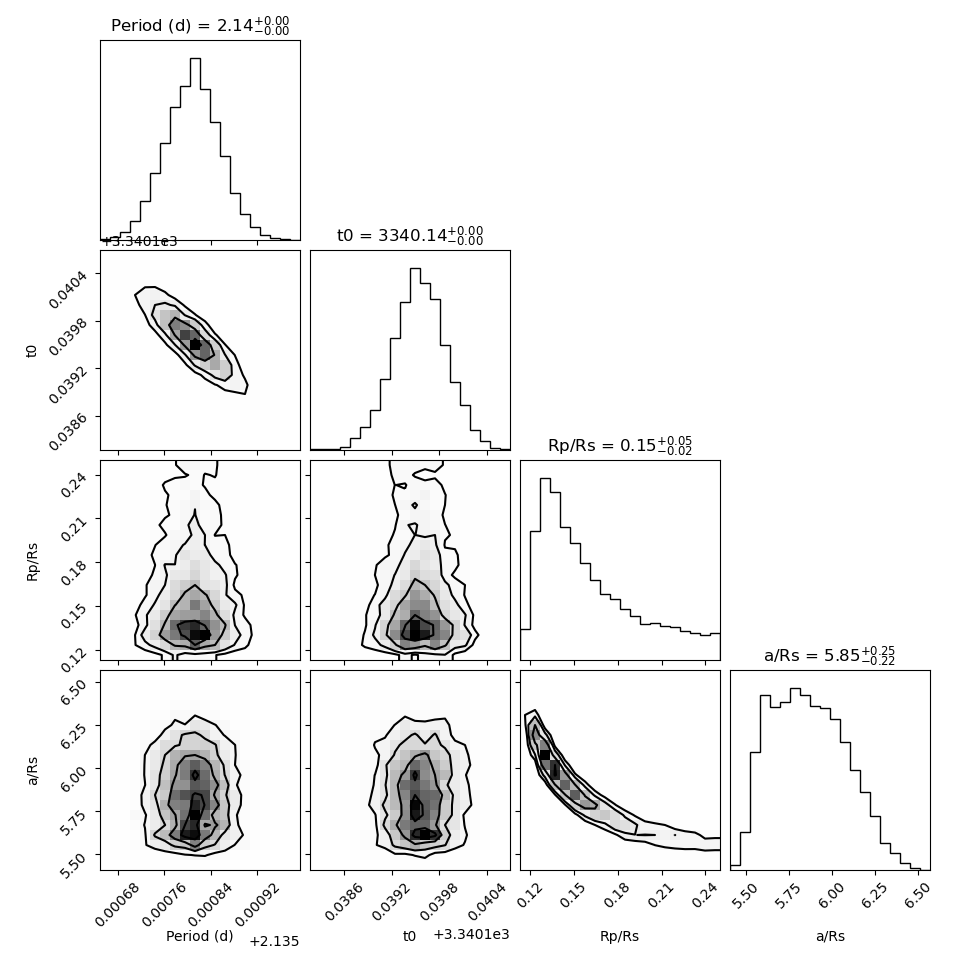
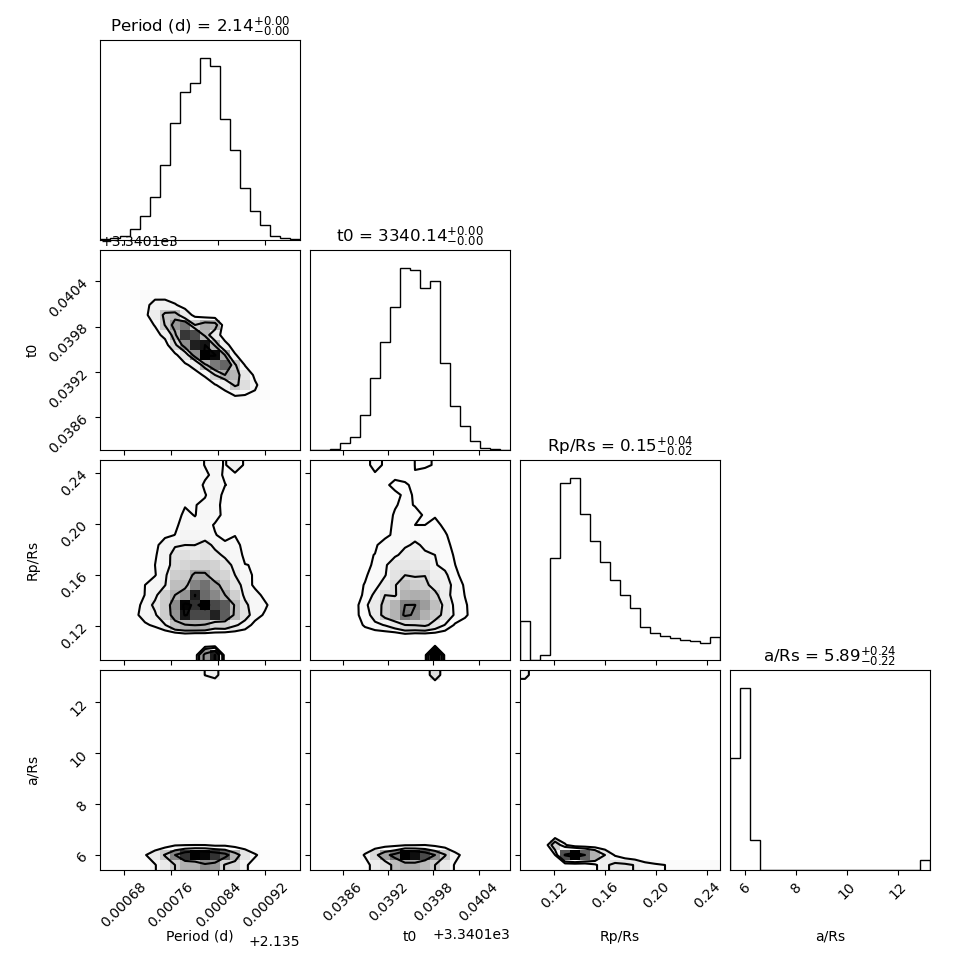
feat(vetting): implement uncertainty-aware radius vetting, depth mismatch diagnostics, and document grazing companion limitations

diff --git a/exoplanet_pipeline/pipeline.py b/exoplanet_pipeline/pipeline.py
@@ -259,22 +259,60 @@ def run_full_pipeline(target_star_id, run_mcmc=True, run_centroid=True,
             derived_params = derive_physical_parameters(posteriors, stellar_params)
             results['derived_physical_parameters'] = derived_params
             
-            # Post-MCMC astrophysical consistency check:
-            # Physical planetary radius ceiling (Guillot 2005): Planets cannot exceed ~2.0-2.5 R_Jup (25 R_earth).
-            # Objects with Rp > 25 R_earth are low-mass stellar/brown dwarf eclipsing binaries.
-            rp_earth_val = float(derived_params['Rp_earth'][0])
-            if rp_earth_val > 25.0:
-                if 'flags' not in ml_results:
-                    ml_results['flags'] = []
-                flag_str = f"FAILED_PLANETARY_RADIUS_CEILING (Rp={rp_earth_val:.1f} R_earth > 25.0 R_earth, Eclipsing Binary Companion)"
+            if 'flags' not in ml_results:
+                ml_results['flags'] = []
+
+            # 1. Uncertainty-Aware Planetary Radius Veto (Guillot 2005):
+            # Maximum physical radius of hydrogen-helium exoplanets is ~2.0-2.5 R_Jup (25.0 R_earth).
+            rp_med = float(derived_params['Rp_earth'][0])
+            rp_neg = float(derived_params['Rp_earth'][1])
+            rp_pos = float(derived_params['Rp_earth'][2])
+            rp_16 = rp_med - rp_neg
+            rp_84 = rp_med + rp_pos
+
+            if rp_16 > 25.0:
+                flag_str = f"FAILED_PLANETARY_RADIUS_CEILING (Rp={rp_med:.1f} [-{rp_neg:.1f}/+{rp_pos:.1f}] R_earth > 25.0 R_earth, Eclipsing Binary Companion)"
                 if flag_str not in ml_results['flags']:
                     ml_results['flags'].append(flag_str)
                 ml_results['planet_probability'] = 0.0
                 ml_results['disposition'] = "FALSE_POSITIVE"
-                results['ml_vetting'] = ml_results
                 results['ml_vetting_score'] = 0.0
-                print(f"\n  [VETTING VETO] Derived physical radius Rp = {rp_earth_val:.1f} R_earth exceeds planetary limit (25 R_earth).")
+                print(f"\n  [VETTING VETO] Physical radius Rp = {rp_med:.1f} [-{rp_neg:.1f}/+{rp_pos:.1f}] R_earth confidently exceeds planetary limit (25.0 R_earth).")
                 print(f"  -> Reclassified disposition: FALSE_POSITIVE (Eclipsing Binary / Stellar Companion)")
+            elif rp_16 <= 25.0 <= rp_84:
+                flag_str = f"AMBIGUOUS_PLANETARY_RADIUS (Rp={rp_med:.1f} [-{rp_neg:.1f}/+{rp_pos:.1f}] R_earth spans 25.0 R_earth ceiling, boundary unresolved)"
+                if flag_str not in ml_results['flags']:
+                    ml_results['flags'].append(flag_str)
+                if ml_results.get('disposition') == "CANDIDATE":
+                    ml_results['disposition'] = "AMBIGUOUS"
+                    ml_results['planet_probability'] = min(ml_results.get('planet_probability', 1.0), 0.50)
+                    results['ml_vetting_score'] = ml_results['planet_probability']
+                print(f"\n  [VETTING WARNING] Physical radius Rp = {rp_med:.1f} [-{rp_neg:.1f}/+{rp_pos:.1f}] R_earth spans planetary ceiling (25.0 R_earth).")
+                print(f"  -> Reclassified disposition: AMBIGUOUS (Needs High-Resolution Spectroscopy / Follow-up)")
+
+            # 2. BLS vs MCMC Depth Consistency Diagnostic:
+            bls_depth = float(bls_results['depth'].value) if hasattr(bls_results['depth'], 'value') else float(bls_results['depth'])
+            mcmc_depth = float(posteriors['depth'][0]) if 'depth' in posteriors else bls_depth
+            depth_ratio = max(mcmc_depth / max(bls_depth, 1e-6), bls_depth / max(mcmc_depth, 1e-6))
+            if depth_ratio >= 1.5:
+                flag_mismatch = f"BLS_MCMC_DEPTH_MISMATCH (BLS={bls_depth*100:.2f}%, MCMC={mcmc_depth*100:.2f}%, ratio={depth_ratio:.2f}x >= 1.5x)"
+                if flag_mismatch not in ml_results['flags']:
+                    ml_results['flags'].append(flag_mismatch)
+                print(f"  [DIAGNOSTIC FLAG] {flag_mismatch}")
+
+            # 3. Grazing Transit Geometry Diagnostic:
+            if 'a_rs' in posteriors and 'inc' in posteriors and 'rp_rs' in posteriors:
+                a_rs_val = float(posteriors['a_rs'][0])
+                inc_rad = np.radians(float(posteriors['inc'][0]))
+                rp_rs_val = float(posteriors['rp_rs'][0])
+                b_impact = a_rs_val * np.cos(inc_rad)
+                if b_impact + rp_rs_val >= 0.95:
+                    flag_grazing = f"NEAR_GRAZING_GEOMETRY (b={b_impact:.2f}, Rp/Rs={rp_rs_val:.3f}, b+Rp/Rs={b_impact+rp_rs_val:.2f})"
+                    if flag_grazing not in ml_results['flags']:
+                        ml_results['flags'].append(flag_grazing)
+                    print(f"  [DIAGNOSTIC FLAG] {flag_grazing}")
+
+            results['ml_vetting'] = ml_results
         except Exception as e:
             print(f"  Error deriving physical params: {e}")
 

diff --git a/README.md b/README.md
@@ -196,6 +196,11 @@ To demonstrate rigorous rejection of astrophysical false positives, the pipeline
   ```
 - **Final Disposition**: **`FALSE_POSITIVE`** (`0.00%` planet probability) | Summary: [`output/TIC_279999655_summary.json`](output/TIC_279999655_summary.json)
 
+> [!NOTE]
+> **Known Vetting Limitations & Astrophysical Caveats:**
+> - **Cool / Low-Mass Grazing Companions**: Single-bandpass photometric vetting cannot detect cool/low-mass grazing companions via odd-even or secondary eclipse when the correct period is found; radius ceiling is the only test sensitive to this failure mode.
+> - **Unconstrained Grazing Geometries**: Candidates with near-grazing impact parameters ($b \gtrsim 0.95$) or BLS/MCMC depth disagreements exceeding $1.5\times$ where the $1\sigma$ posterior spans the $25.0\,R_\oplus$ boundary are explicitly classified as **`AMBIGUOUS`** requiring high-resolution spectroscopic follow-up.
+
 ---
 
 ## 💻 Installation & Environment Setup
